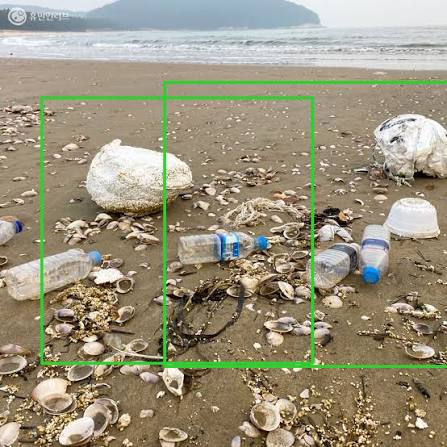
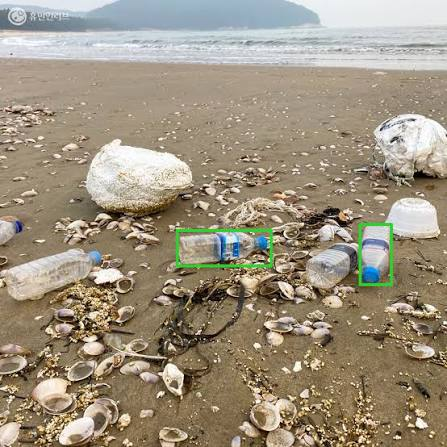
Recalibration
Recalibration

Changed region(s): [[0.0872, 0.1745, 1.0, 0.8434], [0.7852, 0.4944, 0.9016, 0.6398]]

diff --git a/Services/DepthEstimator.cs b/Services/DepthEstimator.cs
@@ -51,33 +51,80 @@ namespace SpatialVisionService.Services
             }
             return tensor;
         }
-
         private void PostProcessAndSave(Tensor<float> depthTensor, string outputPath)
         {
-            float minDepth = float.MaxValue;
-            float maxDepth = float.MinValue;
+            float[] data = depthTensor.ToArray();
 
-            foreach (float val in depthTensor)
+            // 1. Sort the data to find the percentiles
+            float[] sortedData = (float[])data.Clone();
+            Array.Sort(sortedData);
+
+            // 2. Pick the 2nd percentile and 98th percentile as our bounds
+            int lowerIndex = (int)(sortedData.Length * 0.02);
+            int upperIndex = (int)(sortedData.Length * 0.98);
+
+            float minClip = sortedData[lowerIndex];
+            float maxClip = sortedData[upperIndex];
+            float range = maxClip - minClip;
+
+            int height = (int)depthTensor.Dimensions[depthTensor.Dimensions.Length - 2];
+            int width = (int)depthTensor.Dimensions[depthTensor.Dimensions.Length - 1];
+
+            using var outputImage = new Image<L8>(width, height);
+
+            for (int y = 0; y < height; y++)
             {
-                if (val < minDepth) minDepth = val;
-                if (val > maxDepth) maxDepth = val;
-            }
-
-            using var outputImage = new Image<L8>(TargetSize, TargetSize);
-            float depthRange = maxDepth - minDepth;
-
-            for (int y = 0; y < TargetSize; y++)
-            {
-                for (int x = 0; x < TargetSize; x++)
+                for (int x = 0; x < width; x++)
                 {
-                    float rawDepth = depthTensor[0, y, x];
-                    byte grayValue = (byte)(((rawDepth - minDepth) / depthRange) * 255);
-                    outputImage[x, y] = new L8(grayValue);
+                    float val = data[(y * width) + x];
+
+                    // Clamp values to our clip range
+                    float clamped = Math.Max(minClip, Math.Min(maxClip, val));
+
+                    // Normalize based on the clipped range
+                    float normalized = range > 0 ? (clamped - minClip) / range : 0f;
+
+                    byte gray = (byte)(normalized * 255);
+                    outputImage[x, y] = new L8(gray);
                 }
             }
 
             outputImage.SaveAsPng(outputPath);
-            Console.WriteLine($"Depth map saved to: {outputPath}");
+            Console.WriteLine($"Depth map saved with contrast stretch. Range used: {minClip:F2} to {maxClip:F2}");
         }
+        //private void PostProcessAndSave(Tensor<float> depthTensor, string outputPath)
+        //{
+        //    // 1. Get raw data
+        //    float[] data = depthTensor.ToArray();
+
+        //    // 2. Find absolute Min/Max to fit the scale correctly
+        //    float min = data.Min();
+        //    float max = data.Max();
+        //    float range = max - min;
+
+        //    // Get dimensions from tensor (e.g., 384)
+        //    int height = (int)depthTensor.Dimensions[depthTensor.Dimensions.Length - 2];
+        //    int width = (int)depthTensor.Dimensions[depthTensor.Dimensions.Length - 1];
+
+        //    using var outputImage = new Image<L8>(width, height);
+
+        //    for (int y = 0; y < height; y++)
+        //    {
+        //        for (int x = 0; x < width; x++)
+        //        {
+        //            // Simple mapping: (value - min) / range
+        //            float val = data[(y * width) + x];
+        //            float normalized = range > 0 ? (val - min) / range : 0f;
+
+        //            // Map 0.0-1.0 to 0-255
+        //            byte gray = (byte)(normalized * 255);
+
+        //            outputImage[x, y] = new L8(gray);
+        //        }
+        //    }
+
+        //    outputImage.SaveAsPng(outputPath);
+        //    Console.WriteLine($"Depth map saved to: {outputPath} (Range: {min:F2} to {max:F2})");
+        //}
     }
 }

diff --git a/Services/ObjectDetector.cs b/Services/ObjectDetector.cs
@@ -78,16 +78,17 @@ namespace SpatialVisionService.Services
                 float confidence = output[0, i, 4];
                 if (confidence < ConfidenceThreshold) continue;
 
-                float cx = output[0, i, 0];
-                float cy = output[0, i, 1];
-                float w = output[0, i, 2];
-                float h = output[0, i, 3];
+                // YOLO26 natively outputs [x1, y1, x2, y2, confidence, class_id]
+                float x1 = output[0, i, 0];
+                float y1 = output[0, i, 1];
+                float x2 = output[0, i, 2];
+                float y2 = output[0, i, 3];
 
                 // Re-scale coordinate plane bounds back to native resolution targets
-                float xMin = (cx - (w / 2f)) * scaleX;
-                float yMin = (cy - (h / 2f)) * scaleY;
-                float boxWidth = w * scaleX;
-                float boxHeight = h * scaleY;
+                float xMin = x1 * scaleX;
+                float yMin = y1 * scaleY;
+                float boxWidth = (x2 - x1) * scaleX;
+                float boxHeight = (y2 - y1) * scaleY;
 
                 var rect = new RectangleF(xMin, yMin, boxWidth, boxHeight);
                 targetImage.Mutate(ctx => ctx.Draw(Color.LimeGreen, 3f, rect));